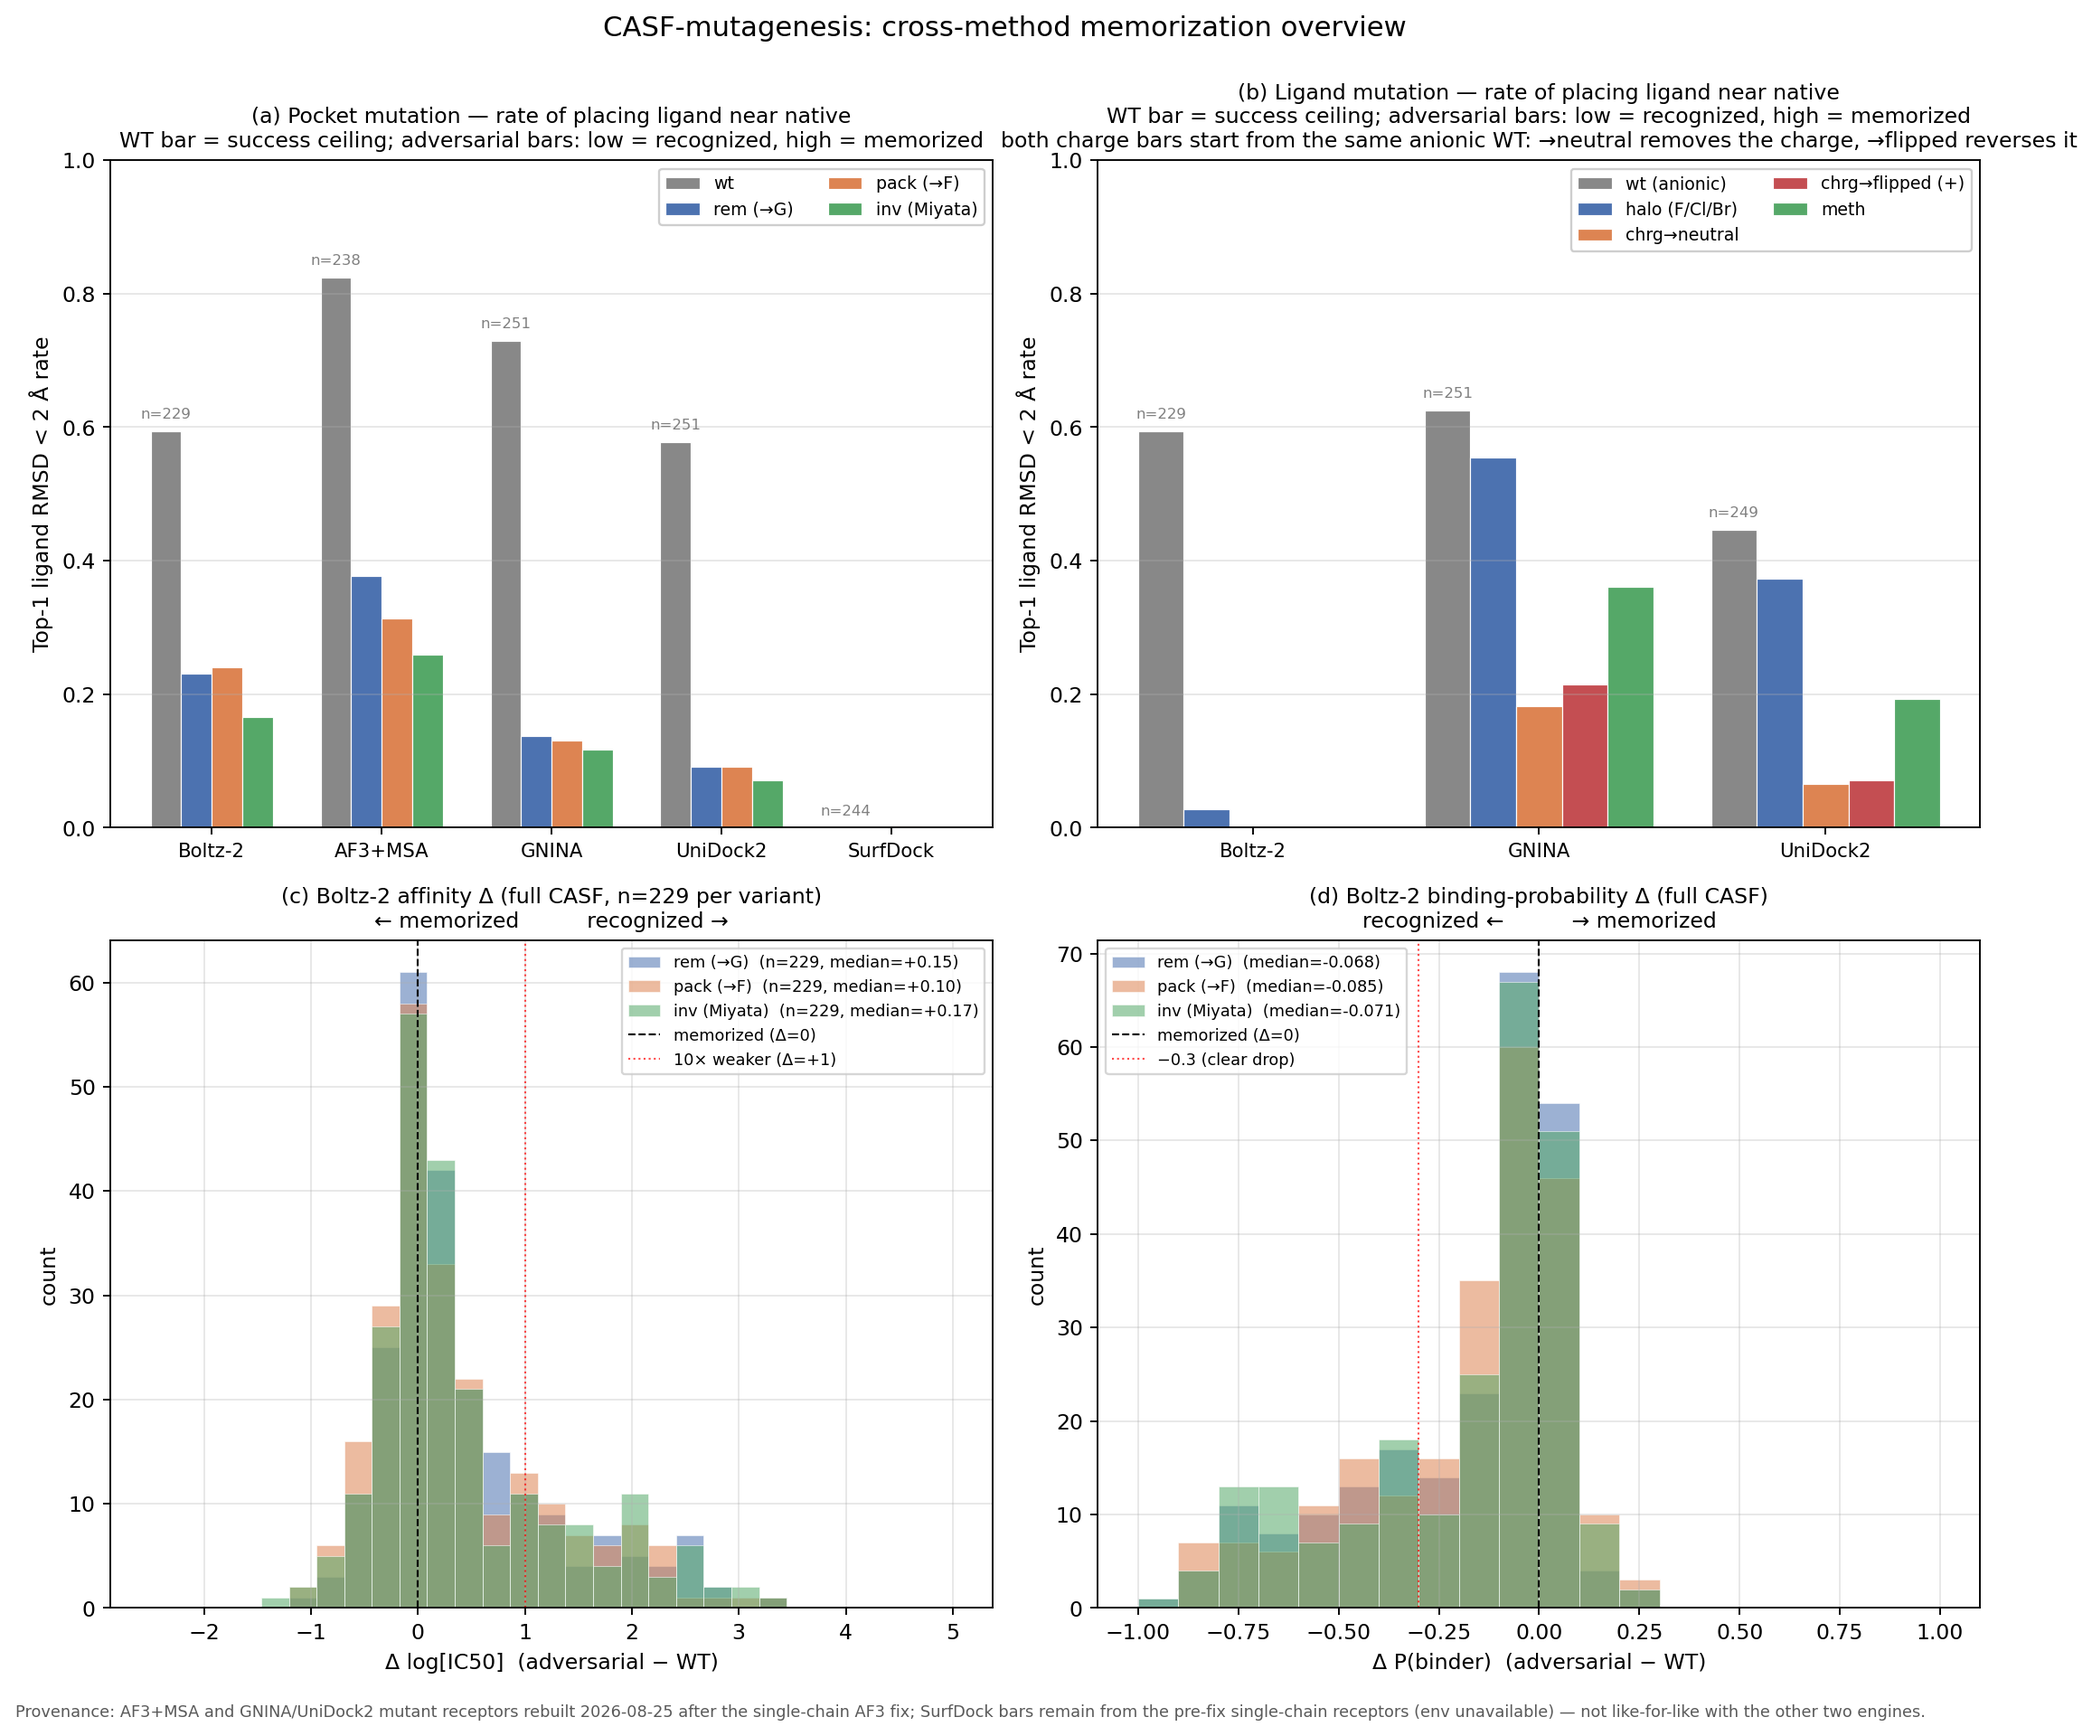
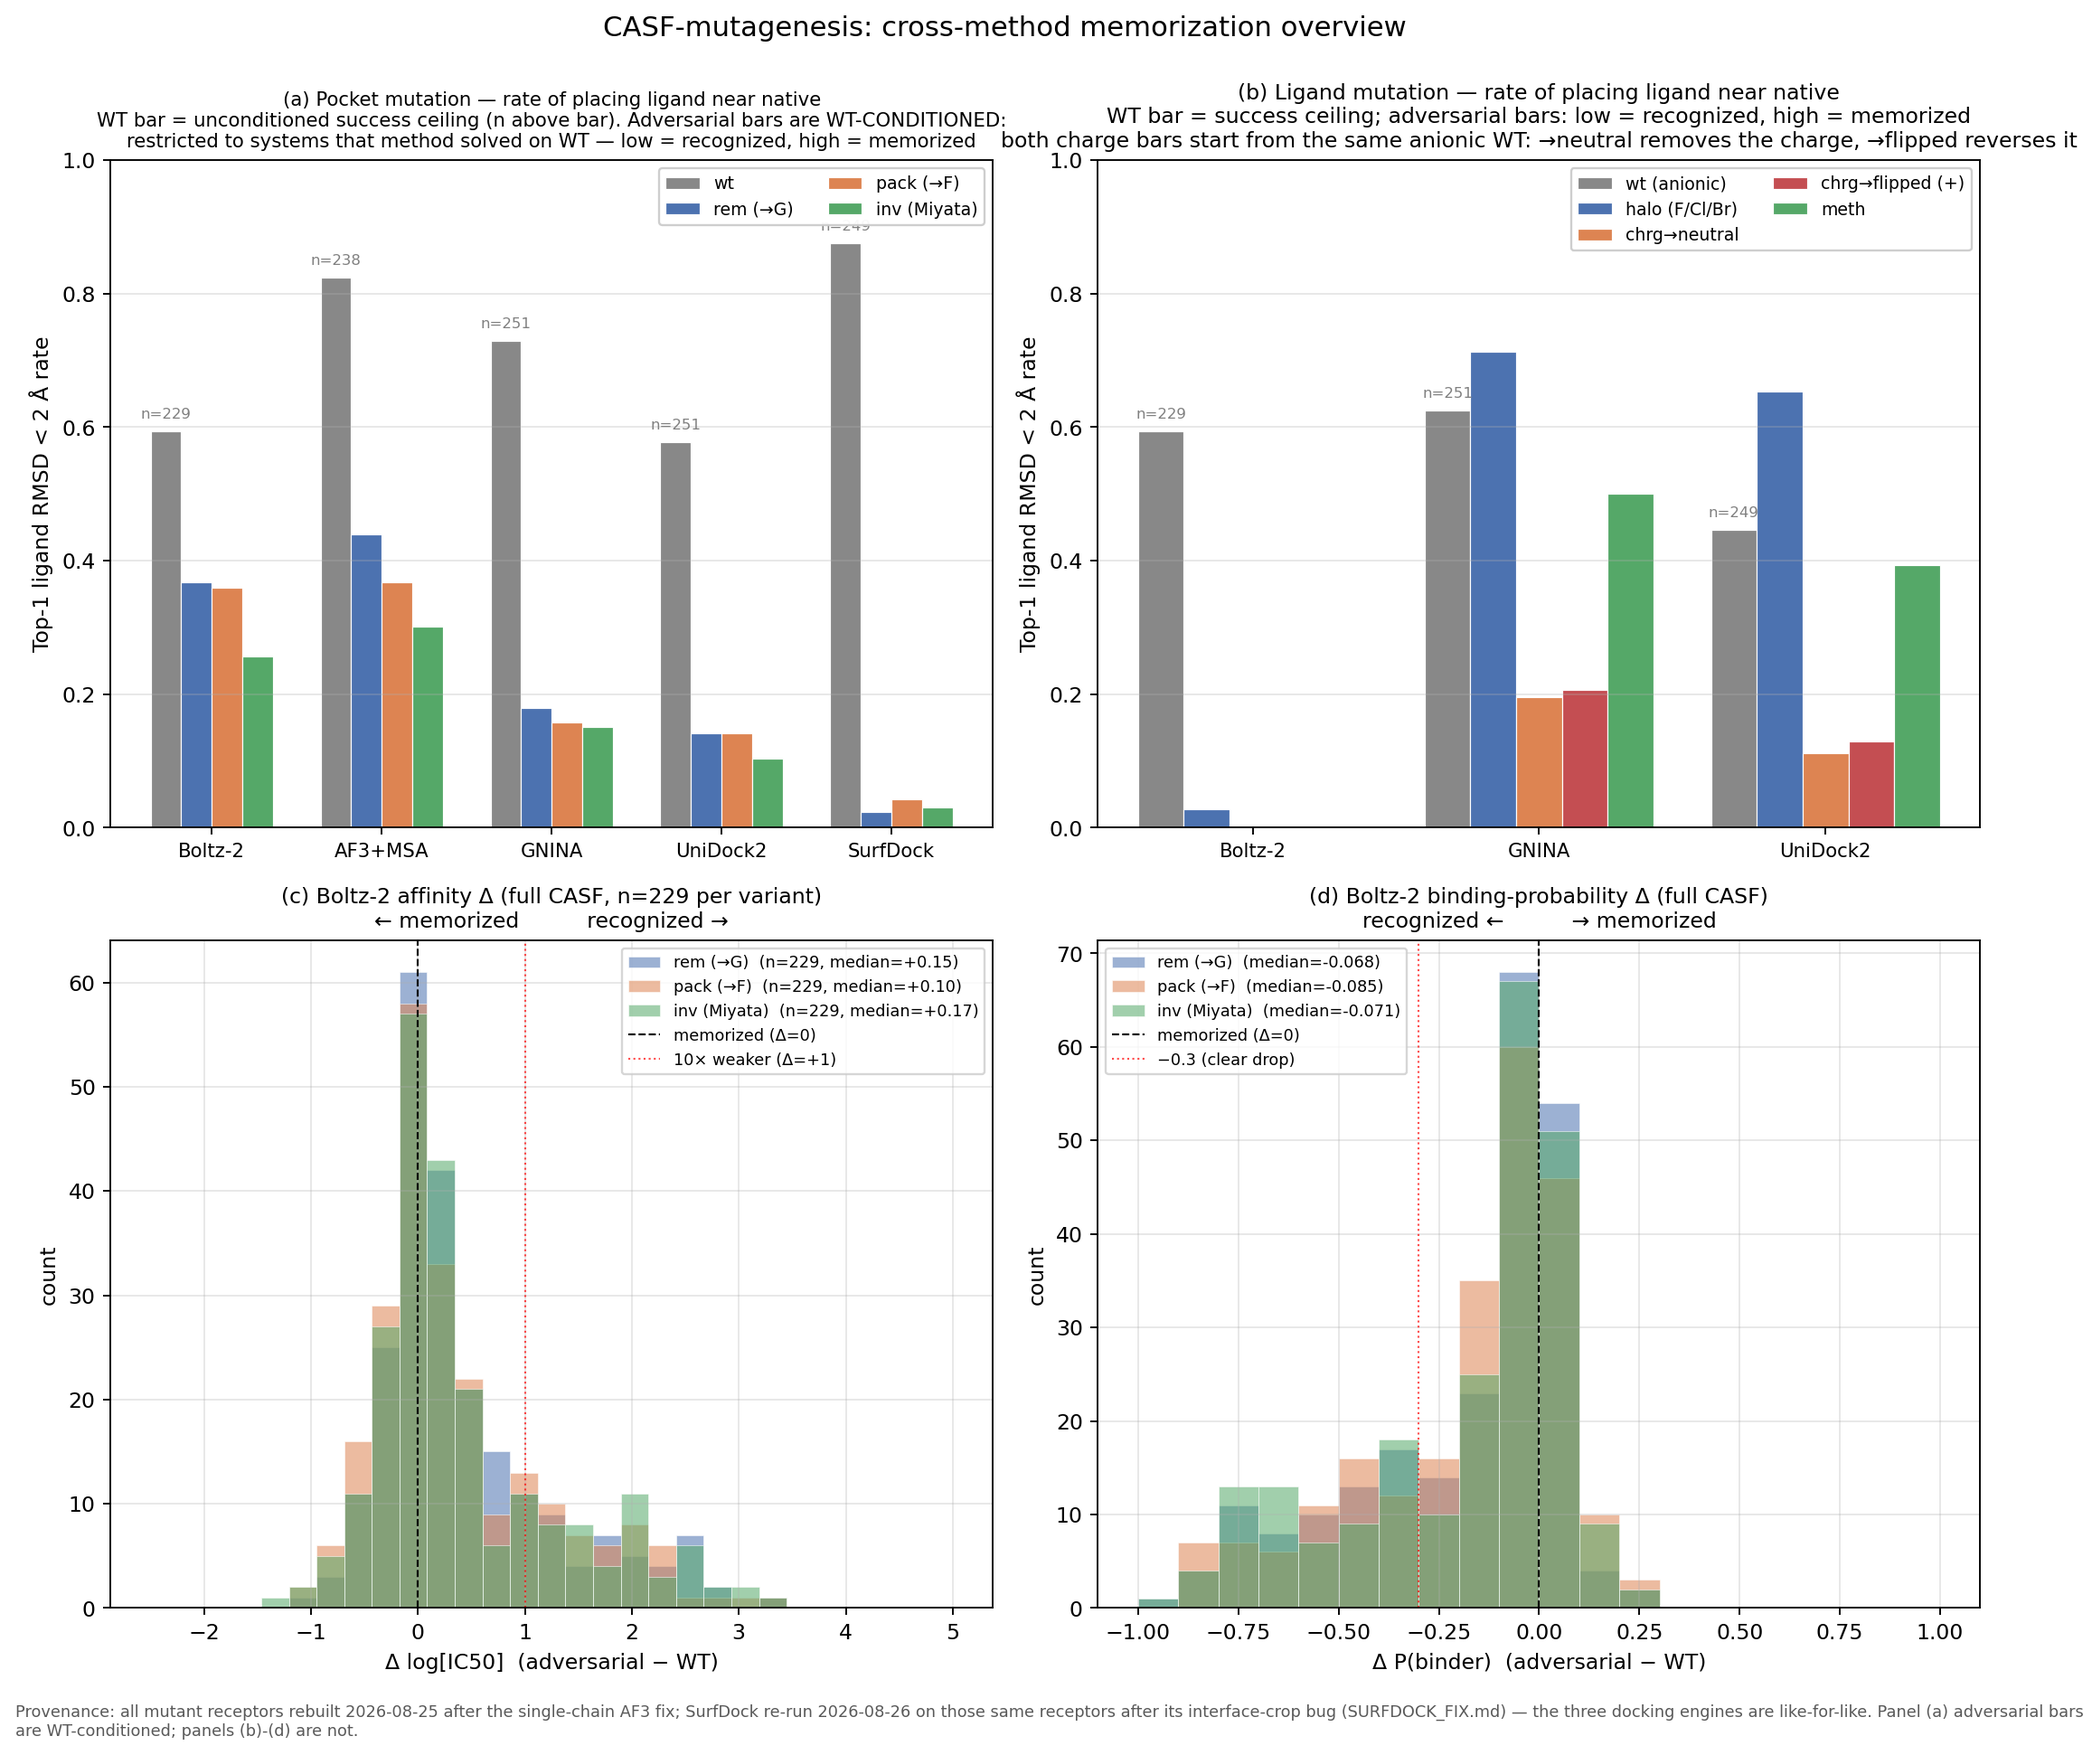
docs(casf): conditioned rates + SurfDock retraction resolved; fix stale figure caveat
casf_overview.md
  * Panel (a) table is now WT-conditioned, with the unconditioned rates kept in a
    companion column and AF3-no-MSA shown as "undefined - no WT-correct systems"
    rather than 0. Spells out the two interpretive changes: Boltz-2's memorization
    was understated 50-60% relative, and GNINA/UniDock2 swap rank.
  * The SurfDock RETRACTED section is replaced by the restored result (WT 0.876 /
    1.06 A median, adversarial 0.024-0.043 conditioned) plus the 12 exclusions and
    an explicit note that the "0 graphs" cause is NOT established.

13_plot_overview.py
  * The figure carried a provenance footnote saying SurfDock's bars came from
    pre-fix single-chain receptors and were "not like-for-like". That became FALSE
    once SurfDock was re-run on the corrected receptors, so it is replaced rather
    than left to mislead; the new note also flags that only panel (a) is conditioned.
  * Panel (b)'s weighted mean skipped None rates from undefined conditionals instead
    of folding in a spurious zero (it crashed on the first run, which is how the
    case surfaced).

Claude-Session: https://claude.ai/code/session_01Cw86bpqRJrqgTT2THA8t5M

diff --git a/analysis/casf_mutagenesis/scripts/13_plot_overview.py b/analysis/casf_mutagenesis/scripts/13_plot_overview.py
@@ -294,12 +294,16 @@ def panel_b_ligand(ax) -> None:
         # docking engine
         eng = method_key.split(":", 1)[1]
         if group_key == "wt":
+            # WT bar stays UNCONDITIONED (conditioned WT is 1.000 by construction).
             r = dock.get(("ligand", eng, "wt"))
-            return (r["rate_2A"], r["n"]) if r else (0.0, 0)
+            return (r["rate_2A_uncond"], r["n_uncond"]) if r else (0.0, 0)
         ns, rates = [], []
         for v in LIG_GROUPS[group_key]:
             r = dock.get(("ligand", eng, v))
-            if not r:
+            # rate_2A is None when the conditional is UNDEFINED (no WT-correct
+            # systems for that variant) -- drop it from the weighted mean rather
+            # than folding in a spurious zero.
+            if not r or r["rate_2A"] is None or not r["n"]:
                 continue
             ns.append(r["n"])
             rates.append(r["rate_2A"])
@@ -382,17 +386,16 @@ def main() -> int:
     fig.suptitle("CASF-mutagenesis: cross-method memorization overview",
                  fontsize=13, y=0.995)
     fig.tight_layout()
-    # Provenance caveat — the panels are NOT uniformly sourced as of 2026-08-25.
-    # AF3+MSA and the GNINA/UniDock2 mutant receptors were rebuilt after the
-    # single-chain AF3 defect was fixed; SurfDock could not be re-run (its conda
-    # env is absent on this host), so its bars still come from the OLD
-    # single-chain receptors. Stating it on the figure so a reader does not take
-    # the three engines as like-for-like.
+    # Provenance. As of 2026-08-28 all three docking engines ARE like-for-like:
+    # SurfDock was re-run on the same post-fix receptors after its interface-crop
+    # bug was found, so the earlier "SurfDock is not like-for-like" caveat no
+    # longer applies and has been removed.
     fig.text(0.005, -0.004,
-             "Provenance: AF3+MSA and GNINA/UniDock2 mutant receptors rebuilt "
-             "2026-08-25 after the single-chain AF3 fix; SurfDock bars remain "
-             "from the pre-fix single-chain receptors (env unavailable) — not "
-             "like-for-like with the other two engines.",
+             "Provenance: all mutant receptors rebuilt 2026-08-25 after the single-chain "
+             "AF3 fix; SurfDock re-run 2026-08-26 on those same receptors after its "
+             "interface-crop bug (SURFDOCK_FIX.md) — the three docking engines are "
+             "like-for-like. Panel (a) adversarial bars are WT-conditioned; panels "
+             "(b)-(d) are not.",
              fontsize=7.5, color="0.35", ha="left", va="top", wrap=True)
     out = FIG_DIR / "overview_full.png"
     fig.savefig(out, dpi=170, bbox_inches="tight")

diff --git a/docs/casf_overview.md b/docs/casf_overview.md
@@ -15,7 +15,7 @@ For the deep dives, see the per-topic docs:
 | signal                            | Boltz-2          | AF3 (no MSA)    | AF3+MSA           | GNINA            | UniDock2         | SurfDock  |
 |-----------------------------------|------------------|-----------------|-------------------|------------------|------------------|-----------|
 | **Pocket mutation** (rem/pack/inv) | | | | | | |
-| Ligand RMSD vs crystal             | ✓ full CASF (n=229) | subset20 only (n=19) | ✓ full CASF (n=238-239) | ✓ full CASF (n=239) | ✓ full CASF (n=239) | ⚠ **RETRACTED** — old cells invalid (surface-prep bug, fixed 2026-08-25); needs re-run, see below |
+| Ligand RMSD vs crystal             | ✓ full CASF (n=229) | subset20 only (n=19) | ✓ full CASF (n=238-239) | ✓ full CASF (n=239) | ✓ full CASF (n=239) | ✓ **full CASF (n=231-249)**, re-run 2026-08-26 after the interface-crop fix |
 | Confidence (iptm/ptm/rs)           | ✓                | ✓               | ✓                 | n/a              | n/a              | confidence in SDF tags |
 | Affinity head (log[IC50] + P)      | ✓ **full CASF**  | — (no head)     | — (no head)       | n/a              | n/a              | n/a       |
 | Best-of-5 poses                    | ✓                | ✓ (subset20)    | ✓ (subset20)      | n/a (single pose)| n/a              | ✓ (top-10) |
@@ -65,49 +65,33 @@ For the figure: see
 
 ---
 
-### SurfDock CASF result — RETRACTED, numbers invalid (2026-08-25)
+### SurfDock — retraction resolved, result restored (2026-08-28)
 
-**The SurfDock numbers previously reported here were an artifact of a bug in
-our own surface-preprocessing step, not a property of SurfDock.** They have
-been withdrawn. Do not cite the SurfDock row, the SurfDock bar in
-`figures/overview_full.png`, or the earlier "SurfDock fails on CASF" reading.
+The earlier "SurfDock fails on CASF (0/244 WT under 2 Å), CASF-2016 is outside its
+training distribution" reading was an artifact of **our own** surface preprocessing —
+`dockstrat`'s helper skipped SurfDock's ligand-proximity interface crop, handing the
+model ~10× the mesh it was trained on. Full diagnosis: [`SURFDOCK_FIX.md`](../SURFDOCK_FIX.md)
+and postmortem `journal/2026-08-28-surfdock-interface-crop.md`.
 
-What was reported: 967/968 cells completed, but **0/244 WT under 2 Å**, median
-6.82 Å, with the conclusion that "CASF-2016 sits outside SurfDock's training
-distribution".
+With the crop restored and the full sweep re-run (956/968 cells, 12 excluded):
 
-What was actually wrong: `dockstrat`'s surface helper skipped SurfDock's
-ligand-proximity **interface crop**, handing the model the entire 8 Å pocket
-surface (~1474–1833 vertices) instead of the ~60–260-vertex interface patch it
-was trained on. Full diagnosis in [`SURFDOCK_FIX.md`](../SURFDOCK_FIX.md).
+| variant | n | <2 Å (uncond) | <2 Å (**WT-conditioned**) | median RMSD |
+|---|---|---|---|---|
+| wt | 249 | **0.876** | — (1.000 by construction) | **1.06 Å** |
+| rem | 238 | 0.029 | **0.024** | 6.20 Å |
+| pack | 238 | 0.046 | **0.043** | 6.09 Å |
+| inv | 231 | 0.026 | **0.030** | 7.19 Å |
 
-Three things falsify the old interpretation:
+**SurfDock is now the best-separating method in the study** — the highest WT ceiling
+of any docking engine *and* the lowest adversarial rates. Its numbers barely move
+under WT-conditioning (218/249 = 87.6% WT-correct), so the result is robust.
 
-1. The same install scores **rank-1 median 0.98 Å / 80 % under 2 Å on
-   PoseBusters** (n=428) — the model and weights were always fine.
-2. `1a0q`, *SurfDock's own shipped test system*, also failed through our
-   pipeline (7.74 Å) — so the failure was never CASF-specific.
-3. With the crop restored, the same CASF systems dock sub-Ångström:
-
-   | system | before | after |
-   |---|---|---|
-   | `1e66` WT | 6.80 Å | **0.32 Å** |
-   | `1gpk` WT | 5.15 Å | **0.42 Å** |
-   | `1gpn` WT | 6.65 Å | **0.46 Å** |
-   | `1h23` WT | 4.96 Å | **1.30 Å** |
-   | `1h22` WT | 7.11 Å | 3.40 Å |
-   | `1k1i` WT | 7.61 Å | 3.25 Å |
-
-   Median 6.65 → **1.30 Å**; under-2 Å rate 0/5 → **3/5**.
-
-A secondary defect was also fixed: `13_run_surfdock.py` passed
-`--ligand_to_pocket_center`, which SurfDock's own eval scripts never use and
-which replaces the trained translational prior with a deterministic delta
-(`1a0q`: 0.86 Å with it, **0.44 Å** without).
-
-**Status: all 968 SurfDock cells need regenerating** before SurfDock can appear
-in this comparison at all. Until then the cross-method matrix is a 5-method
-comparison (Boltz-2, AF3, AF3+MSA, GNINA, UniDock2).
+**12 exclusions (1.24%)**, two mechanisms: 8 cells where SurfDock builds zero graphs
+(7 `inv`, 1 `rem`) and 4 where MSMS produces no surface (2 `wt`, 1 `pack`, 1 `inv`).
+The cause of the "0 graphs" class is **not established** — mesh size does not predict
+it (failed cells span 42–158 vertices, successful ones 7–166,
+`analysis/casf_mutagenesis/mesh_census.json`). Failed cells write no `poses.sdf`, so
+the analyzer skips them cleanly and per-variant `n` reflects the exclusions.
 
 ✓ = results on disk. — = not run. n/a = method doesn't produce that signal.
 
@@ -147,12 +131,29 @@ inv. The signature you want to see if the method is "doing physics" is:
 > a TALL WT bar (model places the native ligand correctly) and SHORT
 > adversarial bars (model can't place the ligand when the pocket is broken).
 
-| method   | WT rate | adv rate (rem / pack / inv) | gap (memorization signal)  |
-|----------|---------|------------------------------|-----------------------------|
-| AF3+MSA  | 0.89    | 0.31 / 0.26 / 0.16           | huge gap → recognizes ~most |
-| GNINA    | 0.73    | 0.14 / 0.13 / 0.11           | very steep → physics-aware  |
-| UniDock2 | 0.58    | 0.09 / 0.10 / 0.06           | very steep → physics-aware  |
-| Boltz-2  | 0.58    | 0.23 / 0.24 / 0.17           | moderate gap → memorizes ~25% |
+**Adversarial rates are WT-CONDITIONED** (2026-08-28): restricted to systems where
+that method placed the wild-type ligand correctly. Without this a method is credited
+for "responding" on systems it cannot solve at all, which flatters low-WT-accuracy
+methods. The WT column stays unconditioned — it is the ceiling and the conditioning
+denominator. Unconditioned rates are in the `*_uncond`-free columns of
+`memorization_full.csv` / `docking_memorization.csv`.
+
+| method   | WT rate (uncond) | WT-correct | adv rate, conditioned (rem / pack / inv) | unconditioned |
+|----------|---------|------------|----------------------|---------------|
+| SurfDock | 0.876   | 218/249    | **0.024 / 0.043 / 0.030** | 0.029 / 0.046 / 0.026 |
+| AF3+MSA  | 0.824   | 196/238    | **0.439 / 0.367 / 0.301** | 0.377 / 0.314 / 0.259 |
+| GNINA    | 0.729   | 183/251    | **0.180 / 0.157 / 0.151** | 0.138 / 0.130 / 0.117 |
+| Boltz-2  | 0.594   | 136/229    | **0.368 / 0.360 / 0.257** | 0.231 / 0.240 / 0.166 |
+| UniDock2 | 0.578   | 145/251    | **0.141 / 0.141 / 0.104** | 0.092 / 0.092 / 0.071 |
+| AF3 (no MSA) | 0.000 | **0/19** | undefined — no WT-correct systems | 0.000 |
+
+Two things conditioning changes:
+
+- **Boltz-2's memorization was understated by 50–60% relative** (0.23/0.24/0.17 →
+  0.37/0.36/0.26). It solves only 59% of WT, so the unconditioned rate hid most of it.
+- **GNINA and UniDock2 swap.** Unconditioned gaps: GNINA +0.601 > UniDock2 +0.493.
+  Conditioned: UniDock2 +0.872 > GNINA +0.837. The old metric was rewarding
+  UniDock2's low WT accuracy as if it were physics-awareness.
 
 So the picture is:
 
